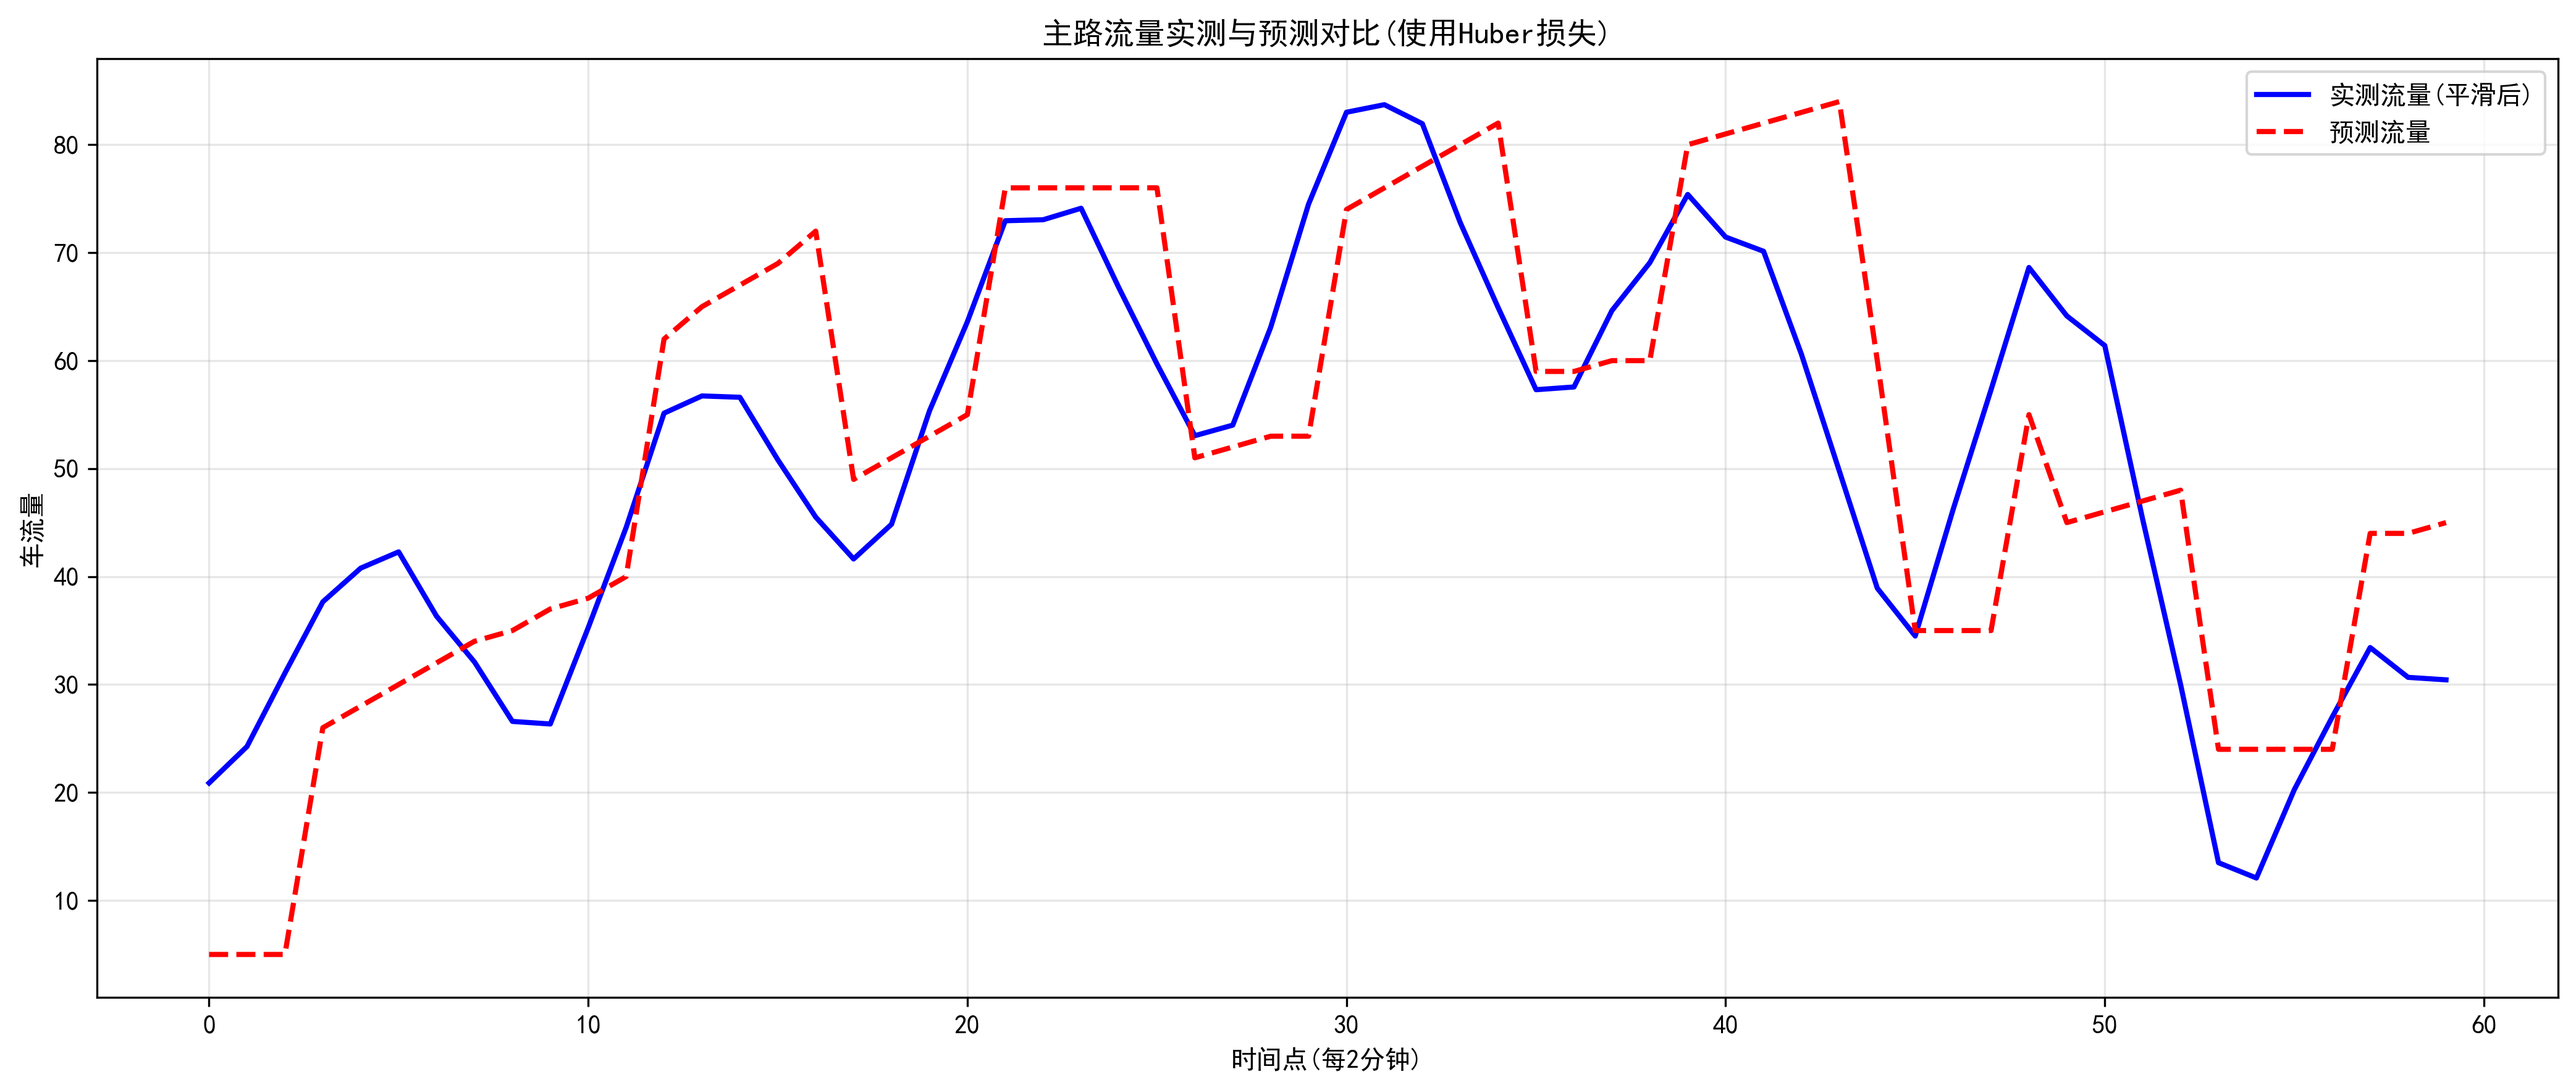
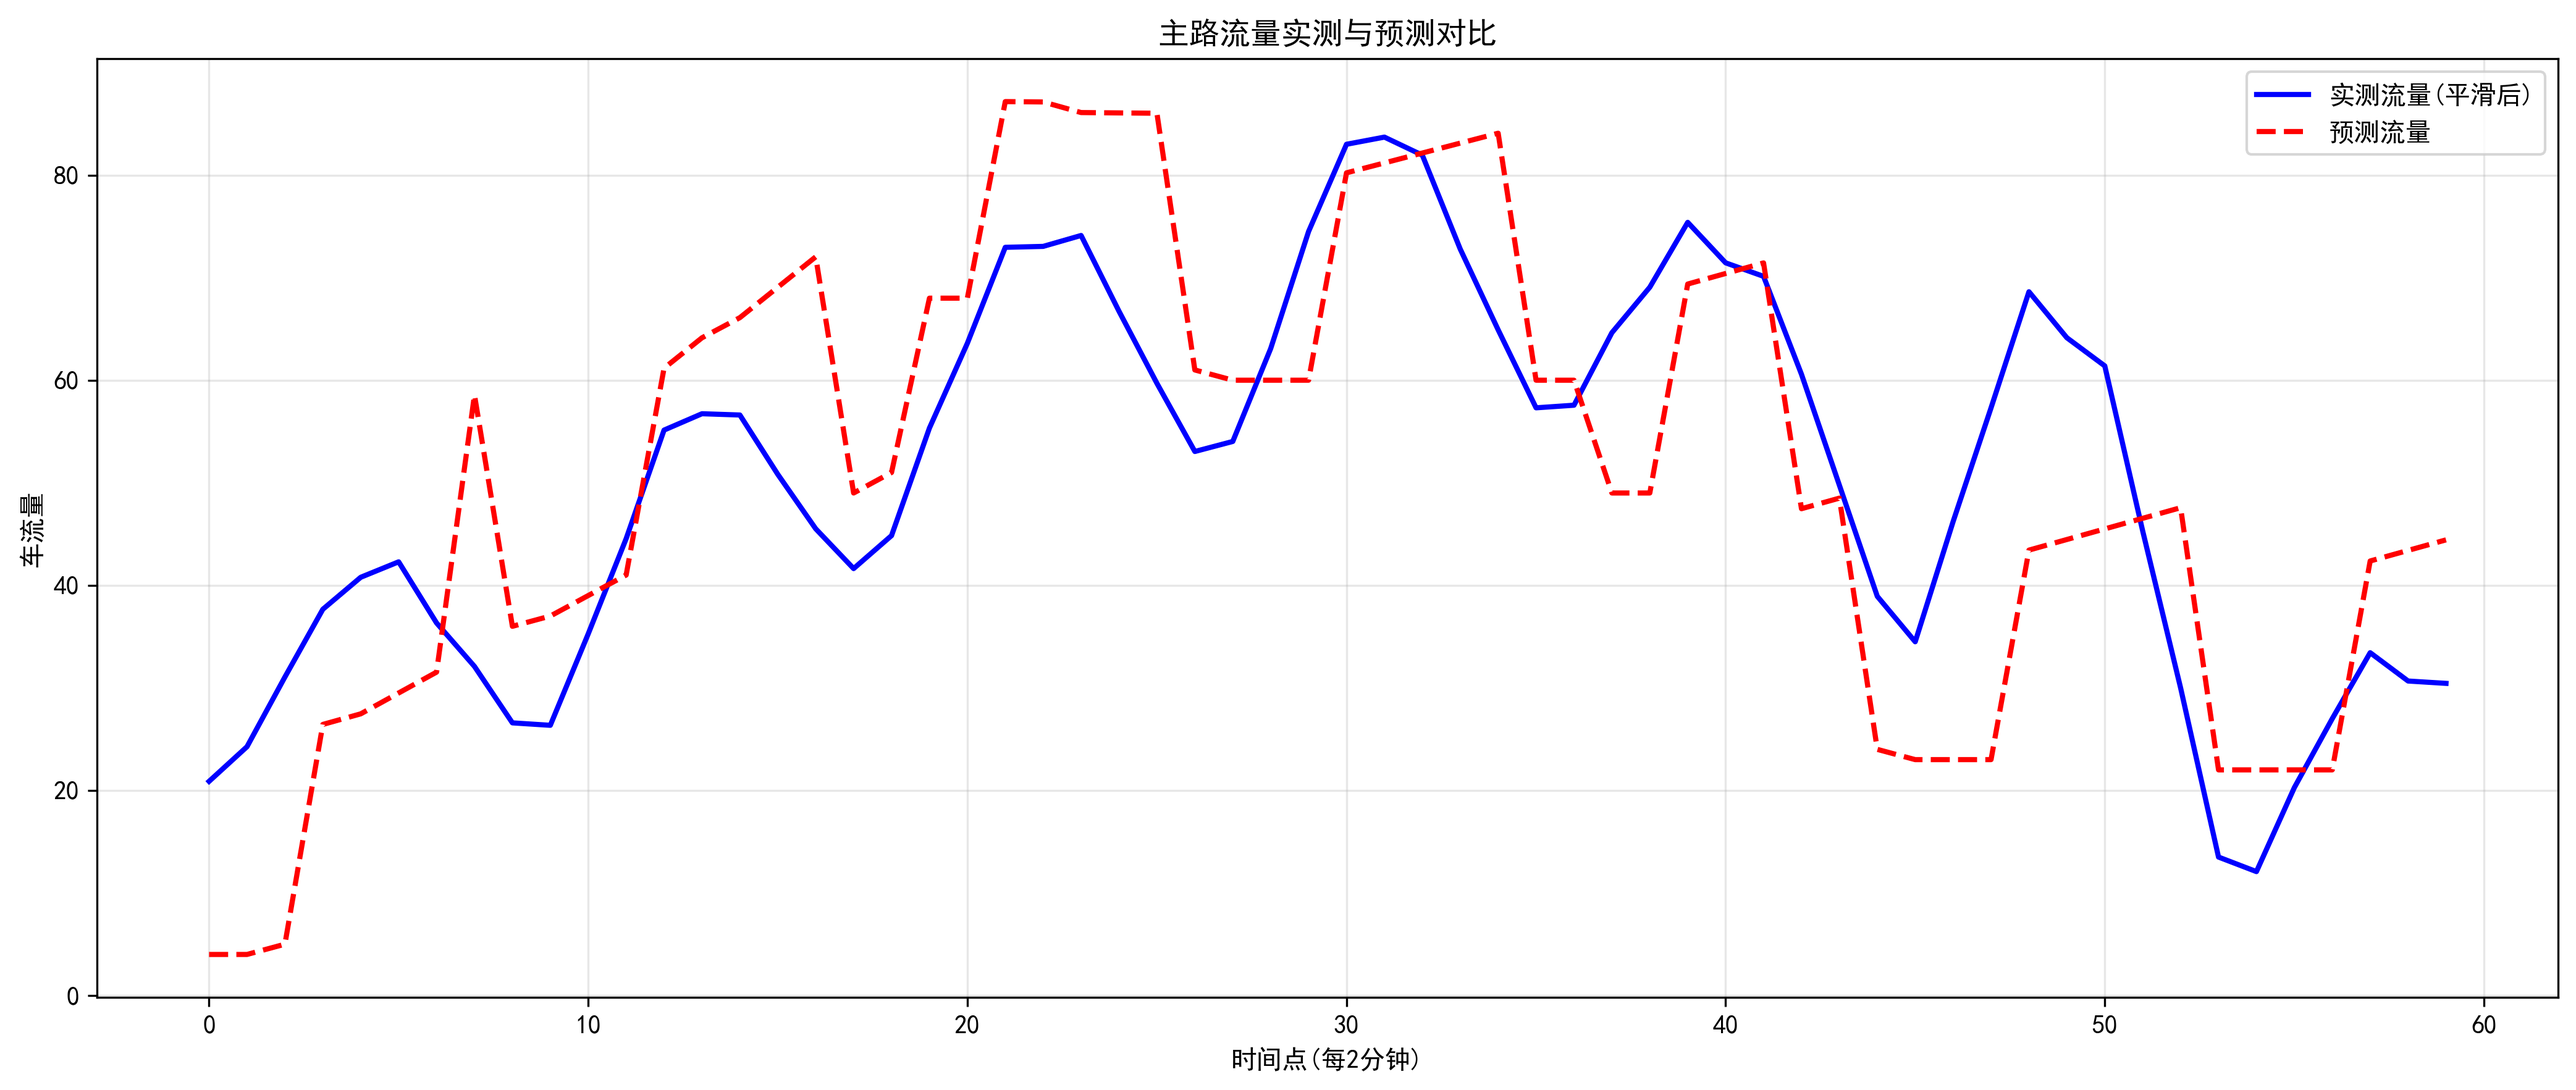
refactor: 优化交通流量分析模型参数并更新报告
优化了模型参数，包括FIRST_GREEN和TRAVEL_DELAY，使其成为可优化参数。更新了交通流量分析报告，移除了不必要的技术细节，并添加了优化后的系统参数部分。

diff --git a/51MCM/p4.py b/51MCM/p4.py
@@ -18,8 +18,8 @@ class TrafficAnalysisSystem:
         self.RED_DURATION = 4
         self.GREEN_DURATION = 5
         self.CYCLE_LENGTH = self.RED_DURATION + self.GREEN_DURATION
-        self.FIRST_GREEN = 3
-        self.TRAVEL_DELAY = 1
+        # FIRST_GREEN和TRAVEL_DELAY将作为可优化参数，在optimize_model中设置
+        # 这里只是初始化变量，但不赋初始值
 
     def _load_dataset(self):
         """加载并预处理交通流量数据（方法1：数据平滑）"""
@@ -54,9 +54,14 @@ class TrafficAnalysisSystem:
     def _calculate_branch_flows(self, t_array, params):
         """计算各支路流量"""
         # 参数解包
+        # 最后两个参数为FIRST_GREEN和TRAVEL_DELAY
+        self.FIRST_GREEN = params[-2]
+        self.TRAVEL_DELAY = params[-1]
+
+        # 其他参数解包
         a_params = params[:10]
         b_params = params[10:15]
-        c_params = params[15:]
+        c_params = params[15:-2]
 
         # 支路1流量计算
         flow1 = self._compute_flow1(t_array, a_params)
@@ -95,8 +100,8 @@ class TrafficAnalysisSystem:
         """计算支路2流量"""
         b1, b2, b3, b4, b5 = params
         result = np.zeros_like(t, dtype=float)
-        brk5 = 35
-        brk6 = 47
+        brk5 = 17
+        brk6 = 35
 
         mask = t <= brk5
         result[mask] = b1 * t[mask] + b2
@@ -131,9 +136,12 @@ class TrafficAnalysisSystem:
         f1_delayed = np.zeros_like(t_array)
         f2_delayed = np.zeros_like(t_array)
 
+        # 将TRAVEL_DELAY转换为整数用于索引
+        travel_delay_idx = int(self.TRAVEL_DELAY)
+
         valid_idx = t_array >= self.TRAVEL_DELAY
-        f1_delayed[valid_idx] = f1[np.where(valid_idx)[0] - self.TRAVEL_DELAY]
-        f2_delayed[valid_idx] = f2[np.where(valid_idx)[0] - self.TRAVEL_DELAY]
+        f1_delayed[valid_idx] = f1[np.where(valid_idx)[0] - travel_delay_idx]
+        f2_delayed[valid_idx] = f2[np.where(valid_idx)[0] - travel_delay_idx]
 
         f1_delayed[~valid_idx] = f1[0]
         f2_delayed[~valid_idx] = f2[0]
@@ -188,10 +196,12 @@ class TrafficAnalysisSystem:
 
     def optimize_model(self):
         """优化模型参数"""
+        # 初始参数设置，添加FIRST_GREEN和TRAVEL_DELAY作为可优化参数
         initial_guess = [
             2.0, 30.0, -1.0, 20.0, 30.0, -1.0, 7.0, 20.0, 30.0, 42.0,
             0.5, 0.0, 40.0, -1.0, 20.0,
-            1.0, 20.0, 1.0, 20.0, 1.0, 20.0, 1.0, 20.0, 1.0, 20.0, 1.0, 20.0, 1.0, 20.0
+            1.0, 20.0, 1.0, 20.0, 1.0, 20.0, 1.0, 20.0, 1.0, 20.0, 1.0, 20.0, 1.0, 20.0,
+            3.0, 1.0  # FIRST_GREEN和TRAVEL_DELAY的初始值
         ]
 
         param_bounds = [
@@ -199,7 +209,8 @@ class TrafficAnalysisSystem:
             (5.0, 10.0), (19.0, 21.0), (25.0, 35.0), (40.0, 45.0),
             (0.1, 2.0), (0.0, 5.0), (35.0, 45.0), (-2.0, -0.1), (15.0, 25.0),
             (0.0, 2.0), (0.0, 30.0), (0.0, 2.0), (0.0, 30.0),(0.0, 2.0), (0.0, 30.0), (0.0, 2.0), (0.0, 30.0),
-            (0.0, 2.0), (0.0, 30.0), (0.0, 2.0), (0.0, 30.0),(0.0, 2.0), (0.0, 30.0)
+            (0.0, 2.0), (0.0, 30.0), (0.0, 2.0), (0.0, 30.0),(0.0, 2.0), (0.0, 30.0),
+            (2.0, 5.0), (0.5, 2.0)  # FIRST_GREEN和TRAVEL_DELAY的边界
         ]
 
         optimization_result = minimize(
@@ -228,7 +239,7 @@ class TrafficAnalysisSystem:
         plt.plot(self.time_idx, self.predicted_flow, 'r--', lw=2, label='预测流量')
         plt.xlabel('时间点(每2分钟)')
         plt.ylabel('车流量')
-        plt.title('主路流量实测与预测对比(使用Huber损失)')
+        plt.title('主路流量实测与预测对比')
         plt.grid(True, alpha=0.3)
         plt.legend()
         plt.tight_layout()
@@ -252,7 +263,7 @@ class TrafficAnalysisSystem:
 
         plt.xlabel('时间点(每2分钟)')
         plt.ylabel('车流量')
-        plt.title('各支路流量变化情况(使用数据平滑和Huber损失)')
+        plt.title('各支路流量变化情况')
         plt.grid(True, alpha=0.3)
         plt.legend()
         plt.tight_layout()
@@ -262,7 +273,7 @@ class TrafficAnalysisSystem:
         """生成分析报告"""
         a_params = self.optimal_params[:10]
         b_params = self.optimal_params[10:15]
-        c_params = self.optimal_params[15:]
+        c_params = self.optimal_params[15:-2]  # 排除最后两个参数(FIRST_GREEN和TRAVEL_DELAY)
 
         # 计算特定时间点流量
         t1, t2 = 15, 45  # 7:30和8:30对应的时间索引
@@ -282,7 +293,7 @@ class TrafficAnalysisSystem:
         main_flow_830 = self._calculate_main_flow(np.array([t2]), self.optimal_params)[0]
 
         with open('./P4/交通流量分析报告4.md', 'w', encoding='utf-8') as f:
-            f.write("# === 交通流量分析报告(使用数据平滑和Huber损失) ===\n\n")
+            f.write("# === 交通流量分析报告 ===\n\n")
 
             # 模型总体误差评估
             f.write("## 【模型误差评估】\n\n")
@@ -294,6 +305,11 @@ class TrafficAnalysisSystem:
             f.write(f"| 7:30-8:00 | {segment_errors[1]:.4f} |\n")
             f.write(f"| 8:00-8:30 | {segment_errors[2]:.4f} |\n")
             f.write(f"| 8:30-8:58 | {segment_errors[3]:.4f} |\n\n")
+
+            # 优化后的信号灯和延迟参数
+            f.write("## 【优化后的系统参数】\n\n")
+            f.write(f"第一个绿灯开始时间: {self.optimal_params[-2]:.4f}\n")
+            f.write(f"支路1和支路2的行驶延迟: {self.optimal_params[-1]:.4f}\n\n")
 
             f.write("## 【支路1模型参数】\n\n")
             f.write(f"增长阶段斜率: {a_params[0]:.4f}\n")

diff --git a/51MCM/P4/交通流量分析报告4.md b/51MCM/P4/交通流量分析报告4.md
@@ -1,62 +1,67 @@
-# === 交通流量分析报告(使用数据平滑和Huber损失) ===
+# === 交通流量分析报告 ===
 
 ## 【模型误差评估】
 
-总体RMSE误差: 12.8174
+总体RMSE误差: 14.0643
 
 各时间段误差:
 
 | 时间段 | RMSE误差 |
 |--------|----------|
-| 7:00-7:30 | 12.6016 |
-| 7:30-8:00 | 11.8071 |
-| 8:00-8:30 | 13.6493 |
-| 8:30-8:58 | 12.9529 |
+| 7:00-7:30 | 14.3800 |
+| 7:30-8:00 | 14.2448 |
+| 8:00-8:30 | 10.3571 |
+| 8:30-8:58 | 16.4712 |
+
+## 【优化后的系统参数】
+
+第一个绿灯开始时间: 2.6963
+支路1和支路2的行驶延迟: 1.0000
 
 ## 【支路1模型参数】
 
-增长阶段斜率: 0.7158
+增长阶段斜率: 0.6188
 初始值: 25.0000
-下降阶段斜率1: -1.9962
-稳定值: 25.0000
+下降阶段斜率1: -1.2683
+稳定值: 25.2884
 下降阶段斜率2: -1.0000
-转折点: 6.3, 20.2, 25.2, 43.2
+转折点: 5.0, 19.0, 25.7, 40.1
 
 ## 【支路2模型参数】
 
-增长斜率: 0.8571
-截距: 5.0000
-稳定值: 35.0000
-下降斜率: -0.1006
+增长斜率: 0.8759
+截距: 4.3465
+稳定值: 35.0043
+下降斜率: -0.1231
 终值: 25.0000
 转折点: 35.0, 47.0
 
 ## 【支路3模型参数】
 
 支路3在红灯时段流量为0，在绿灯时段呈现线性变化
-绿灯周期1的斜率: 1.0016, 截距: 20.0008
-绿灯周期2的斜率: 0.9984, 截距: 19.9992
-绿灯周期3的斜率: 1.0015, 截距: 20.0007
-绿灯周期4的斜率: 1.0003, 截距: 20.0005
-绿灯周期5的斜率: 0.9984, 截距: 19.9992
-绿灯周期6的斜率: 1.0003, 截距: 20.0005
-绿灯周期7的斜率: 0.9998, 截距: 20.0000
+绿灯周期1的斜率: 1.0339, 截距: 20.1172
+绿灯周期2的斜率: 0.9655, 截距: 19.8770
+绿灯周期3的斜率: 0.9655, 截距: 19.8770
+绿灯周期4的斜率: 0.9657, 截距: 19.9299
+绿灯周期5的斜率: 1.0303, 截距: 20.0650
+绿灯周期6的斜率: 1.0339, 截距: 20.1172
+绿灯周期7的斜率: 1.0298, 截距: 20.0579
 
 ## 【支路1流量模型表达式】
 
-$f_1(t) = \begin{cases} 0, & t < 6.3 \ 0.7158 \cdot (t-6.3) + 25.0000, & 6.3 \leq t < 20.2 \\ -1.9962 \cdot (t-20.2) + 35.0000, & 20.2 \leq t < 25.2 \\ 25.0000, & 25.2 \leq t < 43.2 \\ -1.0000 \cdot (t-43.2), & t \geq 43.2 \end{cases}$
+$f_1(t) = \begin{cases} 0, & t < 5.0 \ 0.6188 \cdot (t-5.0) + 25.0000, & 5.0 \leq t < 19.0 \\ -1.2683 \cdot (t-19.0) + 33.6918, & 19.0 \leq t < 25.7 \\ 25.2884, & 25.7 \leq t < 40.1 \\ -1.0000 \cdot (t-40.1), & t \geq 40.1 \end{cases}$
 
 ## 【支路2流量模型表达式】
 
-$f_2(t) = \begin{cases} 0.8571 \cdot t + 5.0000, & t \leq 35.0 \\ 35.0000, & 35.0 < t \leq 47.0 \\ -0.1006 \cdot (t-47.0) + 25.0000, & t > 47.0 \end{cases}$
+$f_2(t) = \begin{cases} 0.8759 \cdot t + 4.3465, & t \leq 35.0 \\ 35.0043, & 35.0 < t \leq 47.0 \\ -0.1231 \cdot (t-47.0) + 25.0000, & t > 47.0 \end{cases}$
 
 ## 【支路3流量模型表达式】
 
-$f_3(t) = \begin{cases} 1.0016 \cdot (t-3) + 20.0008, & t \in [3, 8) \text{ 且为绿灯时段} \\ 0.9984 \cdot (t-12) + 19.9992, & t \in [12, 17) \text{ 且为绿灯时段} \\ 1.0015 \cdot (t-21) + 20.0007, & t \in [21, 26) \text{ 且为绿灯时段} \\ 1.0003 \cdot (t-30) + 20.0005, & t \in [30, 35) \text{ 且为绿灯时段} \\ 0.9984 \cdot (t-39) + 19.9992, & t \in [39, 44) \text{ 且为绿灯时段} \\ 1.0003 \cdot (t-48) + 20.0005, & t \in [48, 53) \text{ 且为绿灯时段} \\ 0.9998 \cdot (t-57) + 20.0000, & t \in [57, 62) \text{ 且为绿灯时段} \\ 0, & \text{其他时段（红灯）} \end{cases}$
+$f_3(t) = \begin{cases} 1.0339 \cdot (t-2.6963477427911973) + 20.1172, & t \in [2.6963477427911973, 7.696347742791197) \text{ 且为绿灯时段} \\ 0.9655 \cdot (t-11.696347742791197) + 19.8770, & t \in [11.696347742791197, 16.696347742791197) \text{ 且为绿灯时段} \\ 0.9655 \cdot (t-20.696347742791197) + 19.8770, & t \in [20.696347742791197, 25.696347742791197) \text{ 且为绿灯时段} \\ 0.9657 \cdot (t-29.696347742791197) + 19.9299, & t \in [29.696347742791197, 34.6963477427912) \text{ 且为绿灯时段} \\ 1.0303 \cdot (t-38.6963477427912) + 20.0650, & t \in [38.6963477427912, 43.6963477427912) \text{ 且为绿灯时段} \\ 1.0339 \cdot (t-47.6963477427912) + 20.1172, & t \in [47.6963477427912, 52.6963477427912) \text{ 且为绿灯时段} \\ 1.0298 \cdot (t-56.6963477427912) + 20.0579, & t \in [56.6963477427912, 61.6963477427912) \text{ 且为绿灯时段} \\ 0, & \text{其他时段（红灯）} \end{cases}$
 
 ## 【关键时间点流量】
 
 | 时间点 | 支路1 | 支路2 | 支路3 | 主路4(预测) | 主路4(实际) |
 |--------|-------|-------|-------|------------|------------|
-| 7:30 | 31.25 | 17.86 | 22.99 |    70.99 |    50.82 |
-| 8:30 |  0.00 | 35.00 |  0.00 |    35.00 |    34.49 |
+| 7:30 | 31.19 | 17.49 | 23.07 |    71.07 |    50.82 |
+| 8:30 |  0.00 | 23.77 |  0.00 |    23.00 |    34.49 |
